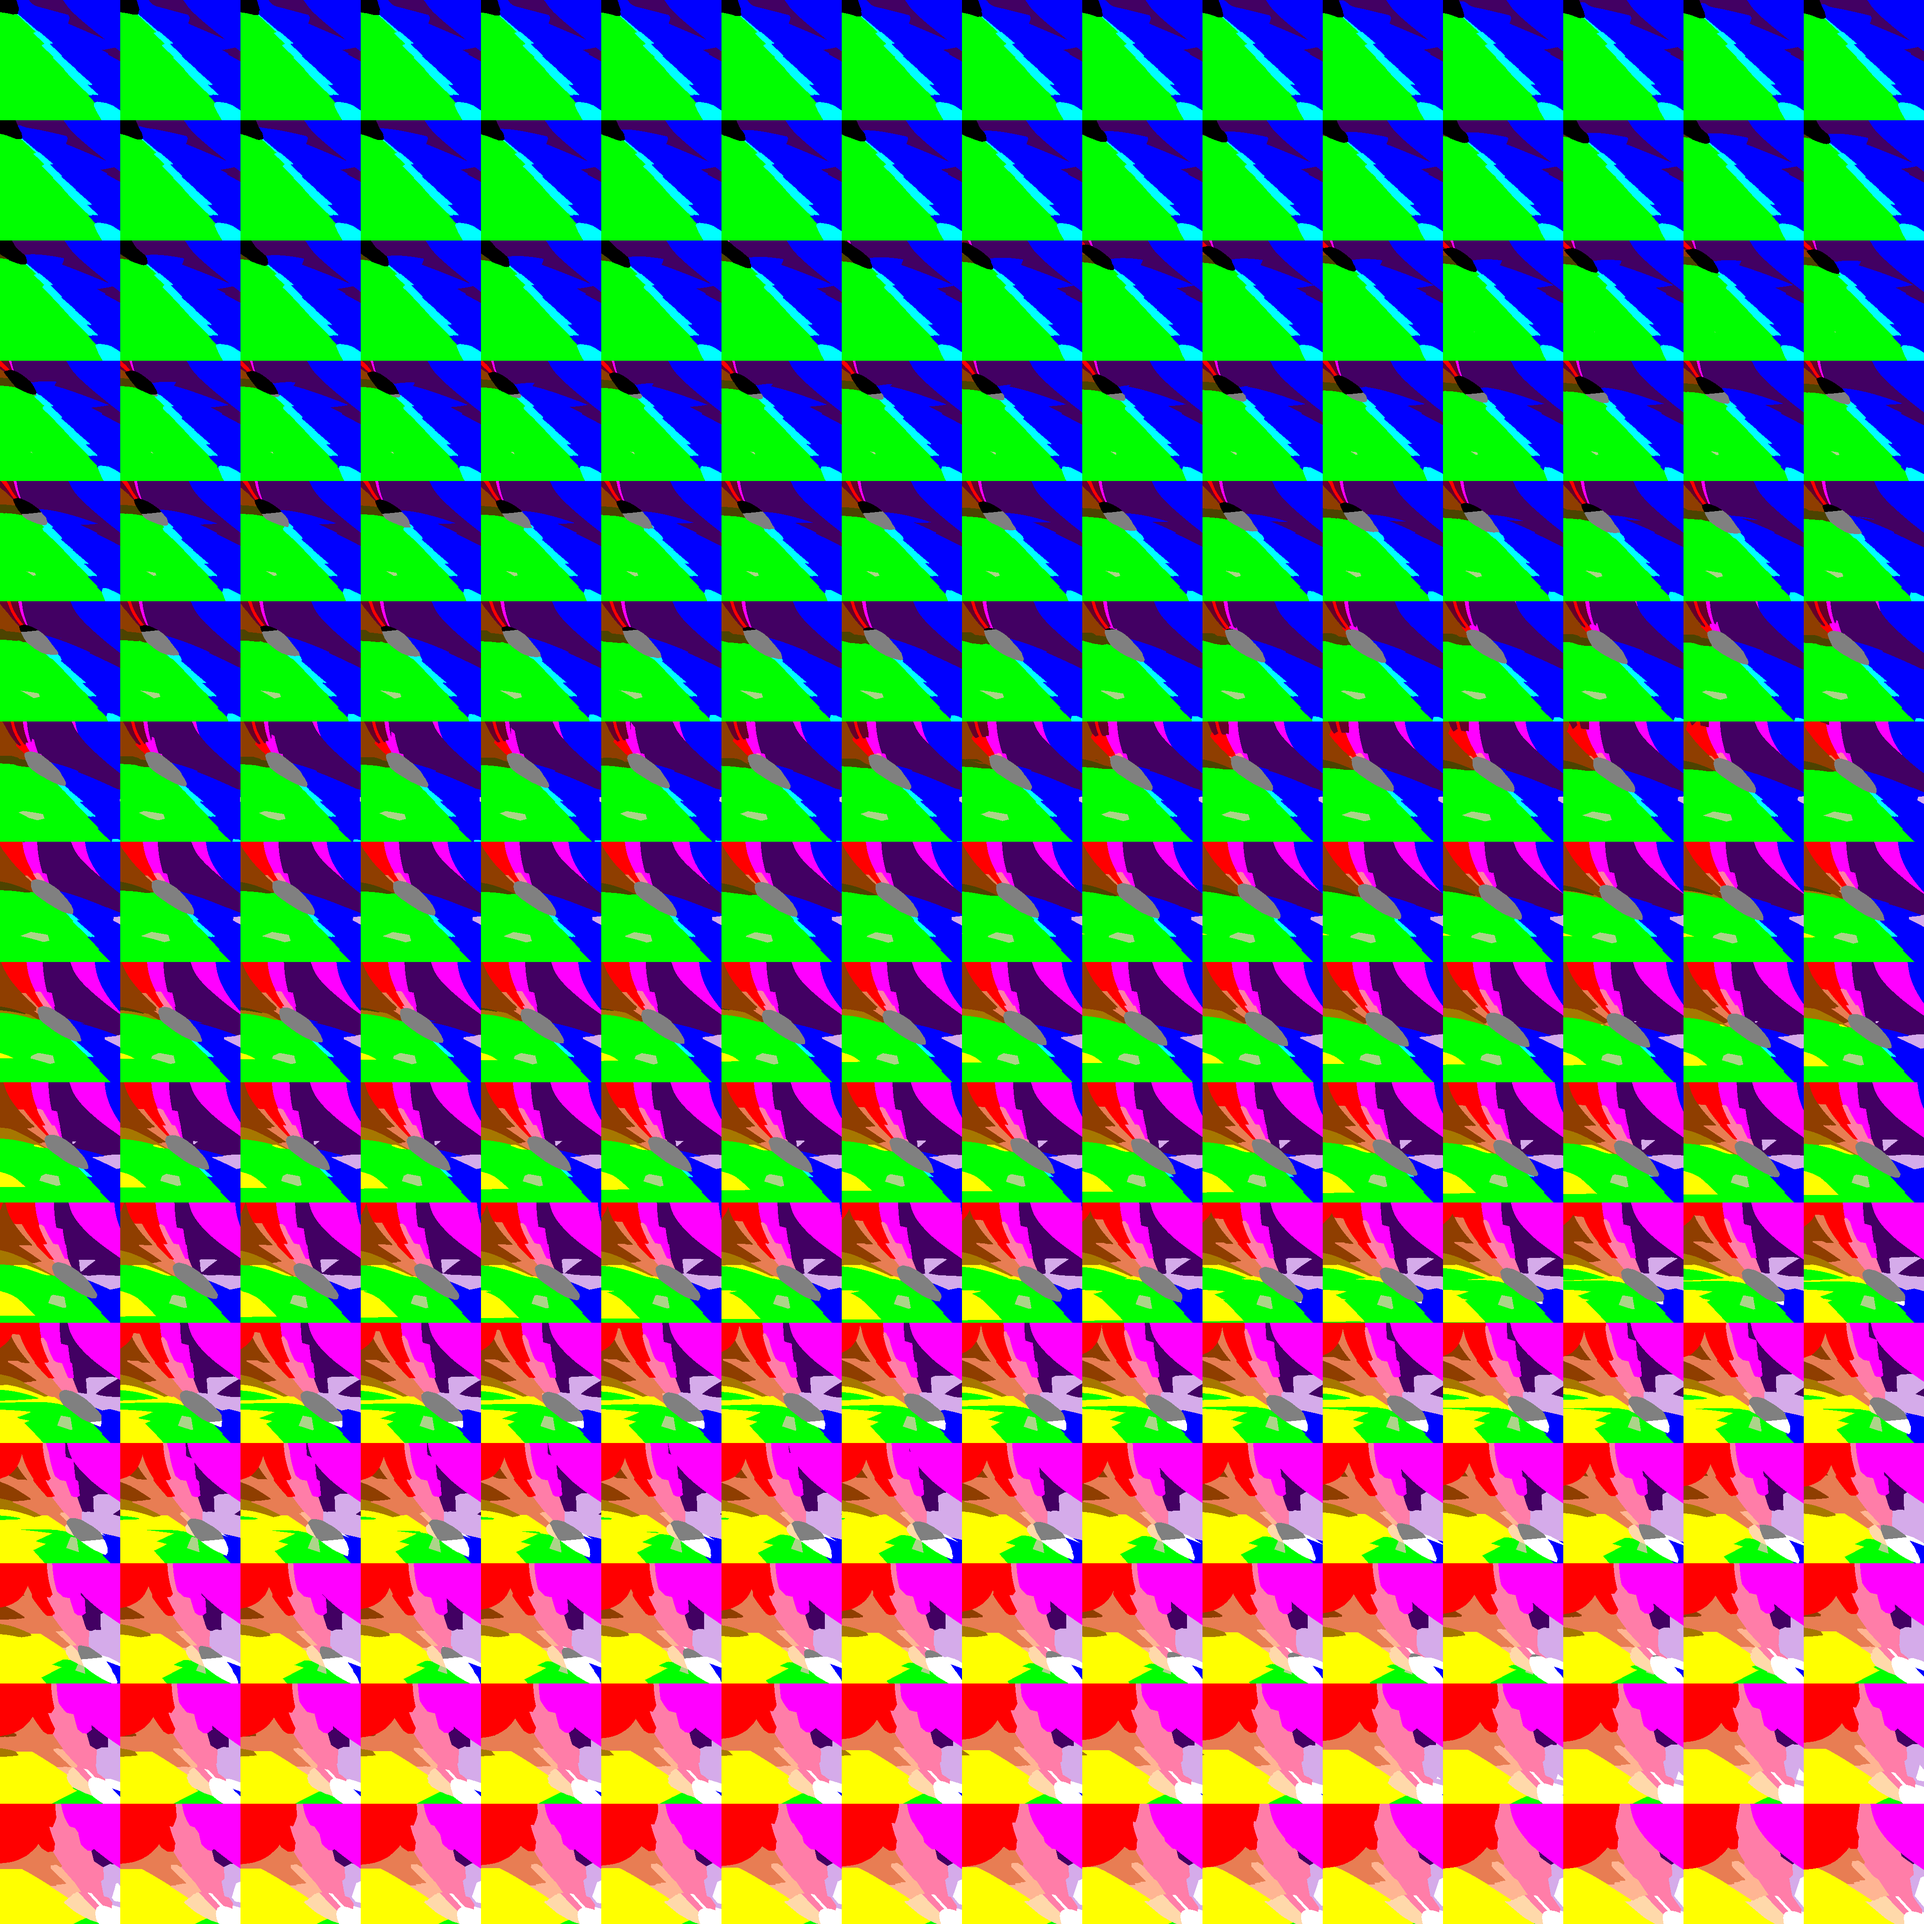
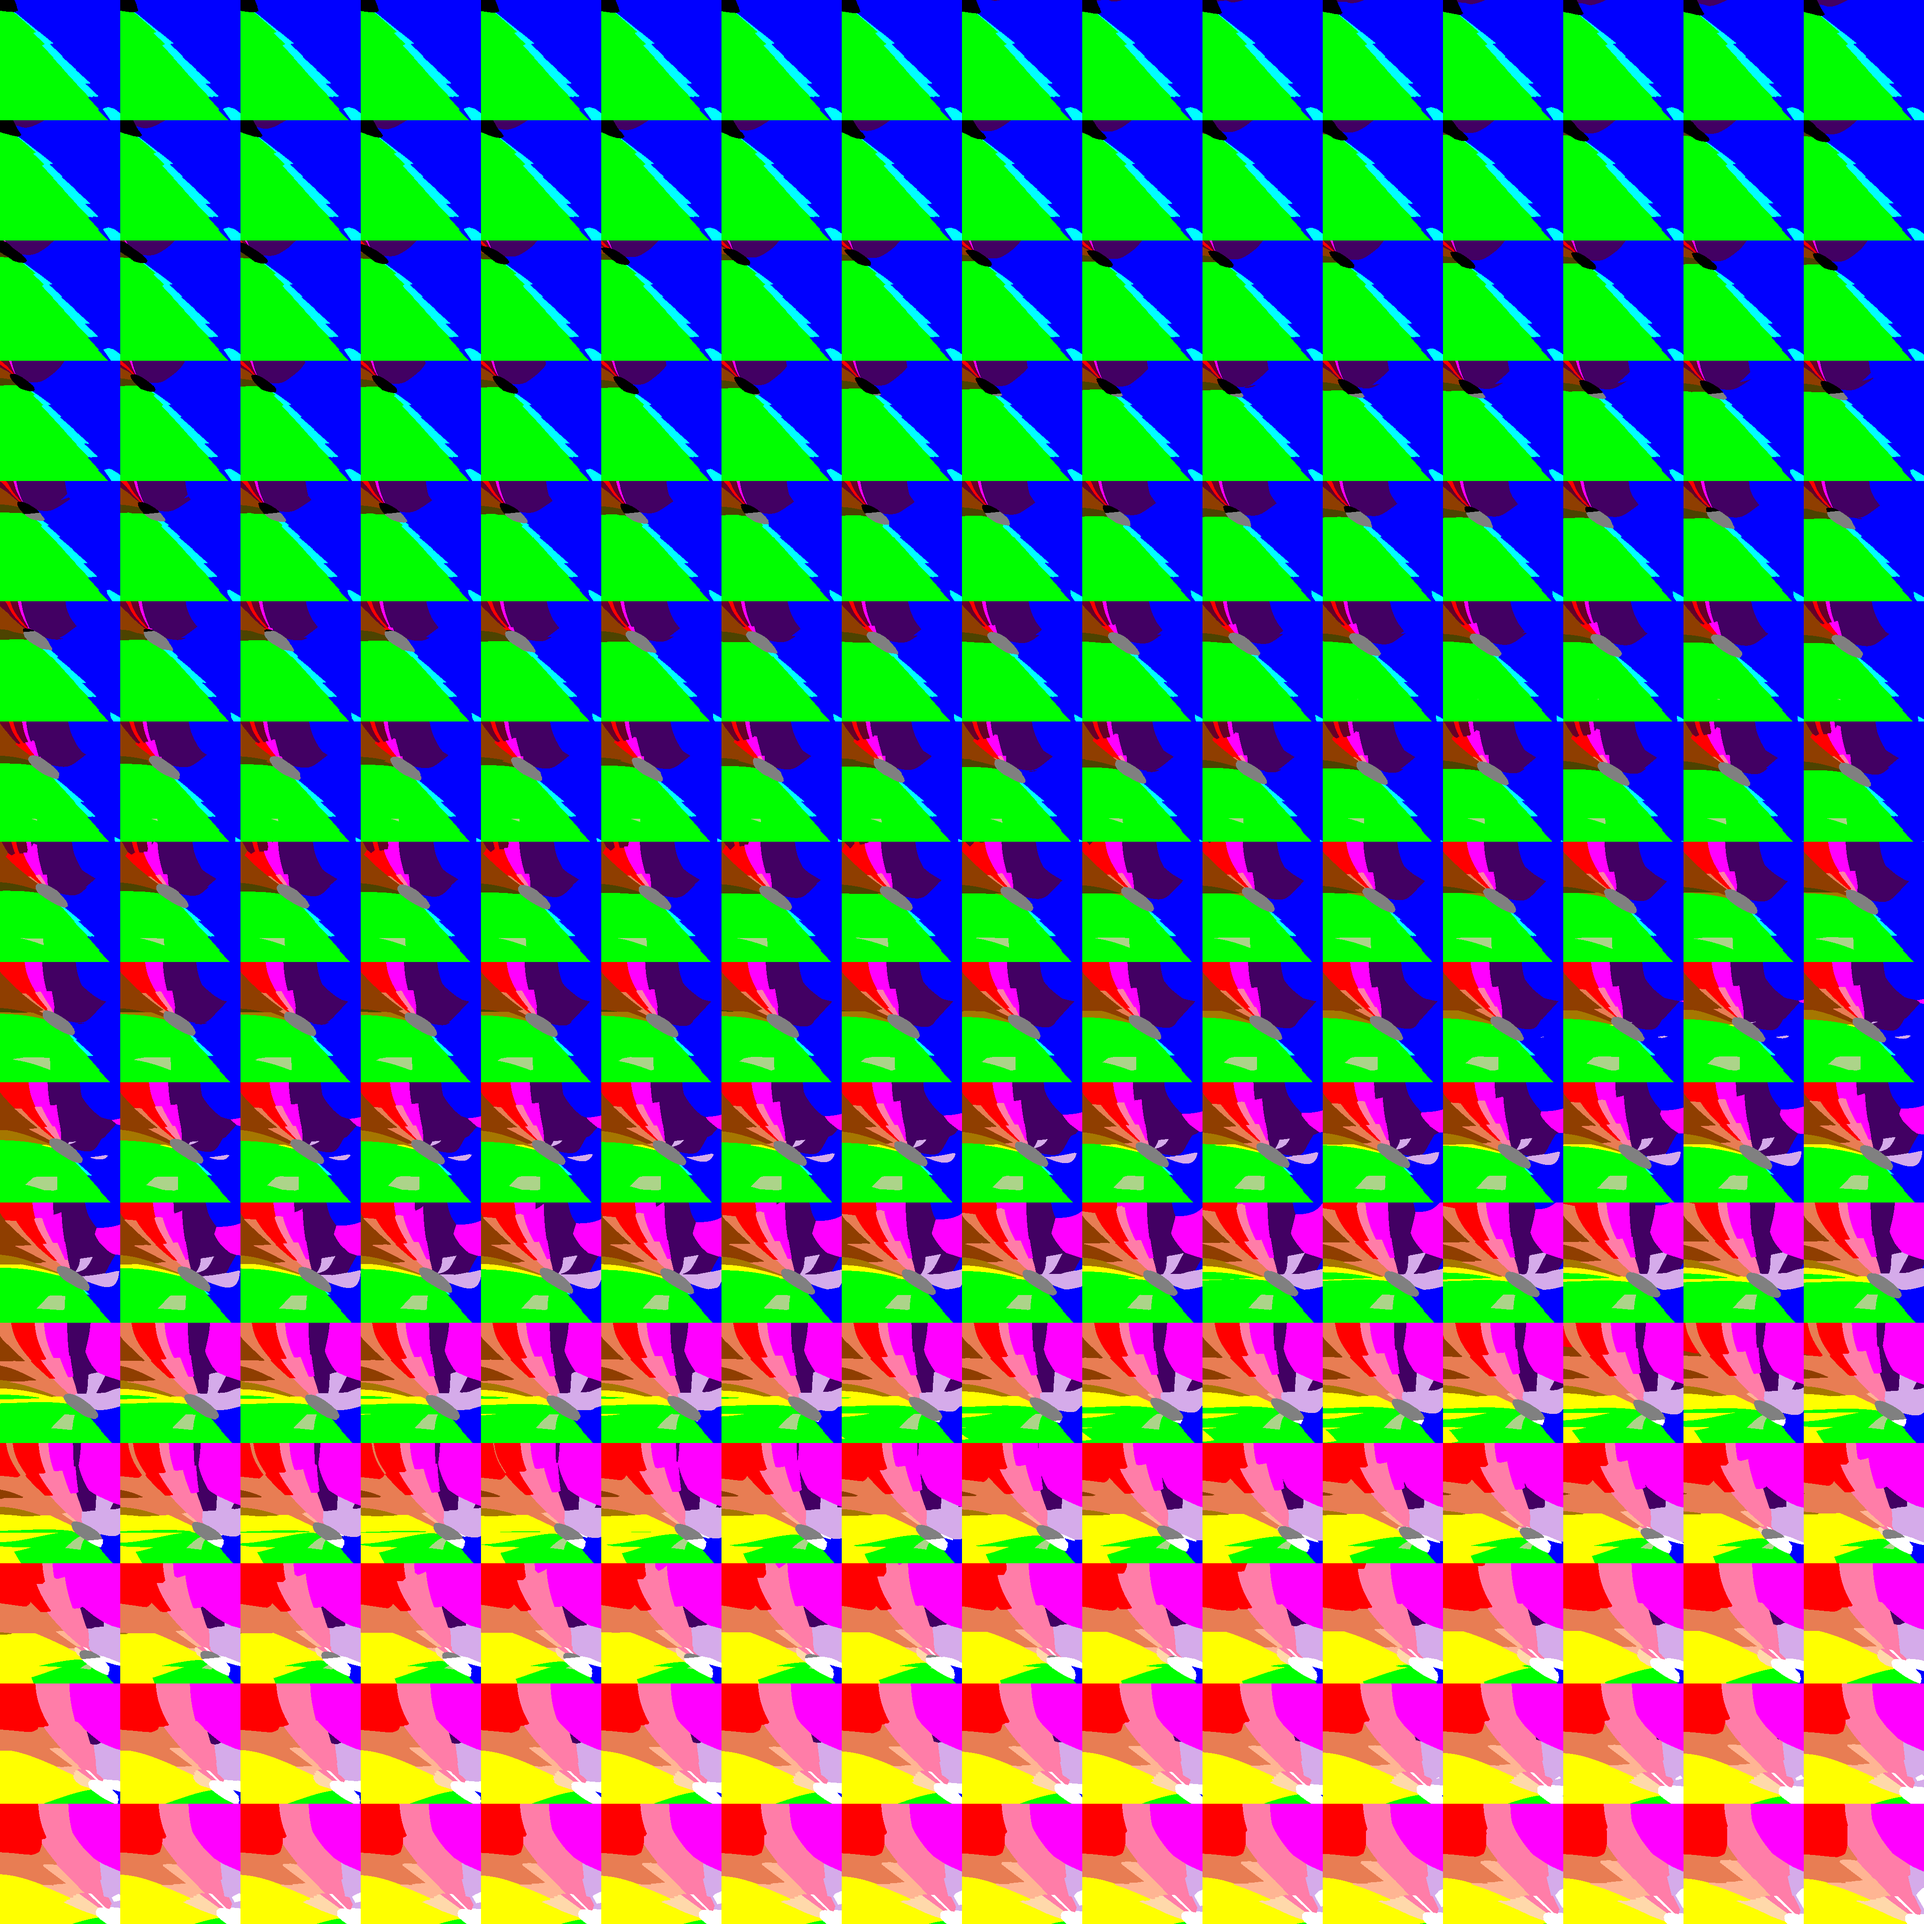
Use delta_E_CIE2000 for color comparisons when generating term maps.

diff --git a/utils/color.py b/utils/color.py
@@ -1,12 +1,15 @@
+# pip install colour-science scipy PILLOW numpy tqdm
+
+import argparse
 import os
 import pprint
-import sys
 
 import colour
 import numpy as np
 import PIL.Image
 import PIL.ImageOps
 import scipy
+import tqdm.contrib.concurrent
 
 
 def xyY_to_rgb(xyY):
@@ -161,7 +164,17 @@ def image_to_colors(image_path):
     return results
 
 
-def rgb_categories(labrgb, labcat, catvals):
+def process_delta2000_chunk(args):
+    labrgb, labcat, catvals = args
+    results = []
+    for rgblab in labrgb:
+        deltas = np.array(colour.difference.delta_E_CIE2000(rgblab, labcat))
+        term_idx = np.argmin(deltas)
+        results.append((term_idx, catvals[term_idx]))
+    return results
+
+
+def rgb_categories(labrgb, labcat, catvals, delta2000=False):
     """
     Compute categoric values.
 
@@ -177,13 +190,25 @@ def rgb_categories(labrgb, labcat, catvals):
     labrgb = labrgb.reshape(-1, 3)
     cats = np.zeros((labrgb.shape[0], ), dtype=np.uint8)
     chunksize = 65536
-    for chunk in range(0, labrgb.shape[0], chunksize):
-        sys.stdout.write(f'{chunk // chunksize}\r')
-        sys.stdout.flush()
+    for chunk in tqdm.tqdm(range(0, labrgb.shape[0], chunksize)):
         # Calculate the Euclidean distance between each color
         distances = np.linalg.norm(labrgb[chunk:chunk + chunksize, np.newaxis] - labcat, axis=2)
         indices = np.argmin(distances, axis=1)
         cats[chunk:chunk + chunksize] = catvals[indices]
+    if delta2000:
+        labchunksize = 4096
+        results = tqdm.contrib.concurrent.process_map(
+            process_delta2000_chunk,
+            [(labrgb[ridx:ridx+labchunksize, :], labcat, catvals)
+             for ridx in range(0, labrgb.shape[0], labchunksize)],
+            chunksize=1)
+        results = [item for sublist in results for item in sublist]
+        differ = 0
+        for idx, (_term_idx, term) in tqdm.tqdm(enumerate(results)):
+            if term != cats[idx]:
+                cats[idx] = term
+                differ += 1
+        print(f'Differences between E1976 and E2000: {differ}')
     return cats.reshape(256, 256, 256)
 
 
@@ -211,16 +236,15 @@ def make_base_data():
     _, hexgrid, hexgray = munsell_table()
 
     if os.path.exists('labrgb.npz'):
-        labrgb = np.load('labrgb.npz')['arr_0']
+        labrgb = np.load('labrgb.npz')['labrgb']
     else:
         labrgb = np.zeros((256 ** 3, 3), dtype=float)
-        for r in range(256):
-            print(r)
+        for r in tqdm.tqdm(range(256)):
             for g in range(256):
                 for b in range(256):
                     labrgb[r * 65536 + g * 256 + b, :3] = colour.XYZ_to_Lab(
                         colour.sRGB_to_XYZ([r / 255, g / 255, b / 255]))
-        np.savez('labrgb.npz', labrgb)
+        np.savez_compressed('labrgb.npz', labrgb=labrgb)
     return labrgb, hexgrid, hexgray
 
 
@@ -389,7 +413,7 @@ def generate_bct11(hexgrid, hexgray):
     return hexdict, viewingColors
 
 
-def hexdict_to_termmap(hexdict, viewcolors, labrgb, basename):
+def hexdict_to_termmap(hexdict, viewcolors, labrgb, basename, delta2000=False):
     cats = {}
     labcat = []
     labcatidx = []
@@ -406,7 +430,7 @@ def hexdict_to_termmap(hexdict, viewcolors, labrgb, basename):
         labcatidx.append(cats[cat])
     labcat = np.array(labcat)
 
-    catrgb = rgb_categories(labrgb, labcat, np.array(labcatidx))
+    catrgb = rgb_categories(labrgb, labcat, np.array(labcatidx), delta2000)
     print([k.capitalize() for k in cats.keys()])
     counts = np.bincount(catrgb.flatten())
     countlist = sorted([(counts[idx], k.capitalize()) for idx, k in enumerate(cats)], reverse=True)
@@ -435,8 +459,28 @@ def hexdict_to_termmap(hexdict, viewcolors, labrgb, basename):
               catrgb[cref[0]][cref[1]][cref[2]] == idx)
 
 
-labrgb, hexgrid, hexgray = make_base_data()
-hexdict20, viewcolors20 = generate_bct20(hexgrid, hexgray)
-hexdict_to_termmap(hexdict20, viewcolors20, labrgb, 'bct20_en_us')
-hexdict11, viewcolors11 = generate_bct11(hexgrid, hexgray)
-hexdict_to_termmap(hexdict11, viewcolors11, labrgb, 'bct11_en_us')
+if __name__ == '__main__':
+    parser = argparse.ArgumentParser(
+        description='Convert figures from the Lindsey and Brown paper to term '
+        'maps that can be used by the color-filter-app.')
+    parser.add_argument(
+        '--bct20', action=argparse.BooleanOptionalAction, default=True,
+        help='Generate the BCT20 term map.  The file '
+        'i1534-7362-14-2-17-f09.jpeg must be in the currenct directory.')
+    parser.add_argument(
+        '--bct11', action=argparse.BooleanOptionalAction, default=True,
+        help='Generate the BCT11 term map.  The file '
+        'm_i1534-7362-14-2-17-f05.jpeg must be in the currenct directory.')
+    parser.add_argument(
+        '--delta2000', '--delta_e_cie2000', action='store_true',
+        help='Use delta_E_CIE2000 for color comparisions.  If not specified, '
+        'delta_E_CIE1976 is used.')
+    opts = parser.parse_args()
+
+    labrgb, hexgrid, hexgray = make_base_data()
+    if opts.bct20:
+        hexdict20, viewcolors20 = generate_bct20(hexgrid, hexgray)
+        hexdict_to_termmap(hexdict20, viewcolors20, labrgb, 'bct20_en_us', opts.delta2000)
+    if opts.bct11:
+        hexdict11, viewcolors11 = generate_bct11(hexgrid, hexgray)
+        hexdict_to_termmap(hexdict11, viewcolors11, labrgb, 'bct11_en_us', opts.delta2000)

diff --git a/README.md b/README.md
@@ -5,18 +5,18 @@ This app aims to answer two questions that constantly plague colorblind people:
 
 - **What color is that?**
 
-- **Which thing is some color**
+- **Which items are that color?**
 
-In the first instance, color used as a reference by the color-sighted, and can
-be a useful way to discriminate between different items.  In the second 
+In the first instance, color is used as a reference by the color-sighted, and 
+can be a useful way to discriminate between different items.  In the second 
 instance, knowing the color used to describe something can be used to identify
 the thing.
 
 The basic use of the app is to point the camera at an  object and see the basic
 color term used for it, or to cycle through the color terms to determine what 
-items are a particular color.  Some terms, like orange and brown, are quite light
-sensitive.  Further, some basic color terms vary by speaker (e.g., teal can be
-treated as synonymous with aqua, turquoise, or cyan).
+items are a particular color.  Some terms, like orange and brown, are quite 
+light sensitive.  Further, some basic color terms vary by speaker (e.g., teal
+can be treated as synonymous with aqua, turquoise, or cyan).
 
 The app shows either a zoomable live camera view or lets the user select an
 image.  The camera or image can be shown either filtered by hue or basic color
@@ -76,13 +76,23 @@ teal, purple, and yellow.  These colors were all converted to L\*a\*b\*.
 
 For the entire 256 x 256 x 256 sRGB 8-bit color cube, the L\*a\*b\* values were
 computed at each point.  Each point in the color cube was assigned the color 
-term closest to a L\*a\*b\* value that had been found in the previous step.  
-This color cube is written out as a grayscale PNG where pixel values are the 
-index into the terms list.  It is written as a grid of 16 x 16 images, each
-256 x 256 pixels ordered from red = 0 at the top left, red = 1 just to the 
-right of that, all the way to red = 255 at the bottom right.  In each sub
-image, blue runs left (0) to right (255) and green runs top (0) to bottom 
-(255).  The term order is listed by the processing program and must match the
-PNG.  The PNG is also written out in a palettized form to make it easier for
-color-sighted people to check the results.
+term closest to a L\*a\*b\* value that had been found in the previous step.
+The closeness algorithm used was delta_E_CIE2000.  This color cube is written
+out as a grayscale PNG where pixel values are the index into the terms list.
+It is written as a grid of 16 x 16 images, each 256 x 256 pixels ordered from
+red = 0 at the top left, red = 1 just to the right of that, all the way to 
+red = 255 at the bottom right.  In each sub image, blue runs left (0) to right
+(255) and green runs top (0) to bottom (255).  The term order is listed by the
+processing program and must match the PNG.  The PNG is also written out in a
+palettized form to make it easier for color-sighted people to check the 
+results.
+
+Limitations
+-----------
+
+Lighting and white balance affect the results.  In dim areas, the color term 
+might be a darker form of what a color-sighted person picks (e.g., tomato 
+ketchup might be reported as brown rather than red).  In common English, we use
+a completely different set of words to describe skin tones, so the basic color
+term reported would not be the term used to describe someone's complexion.
 
